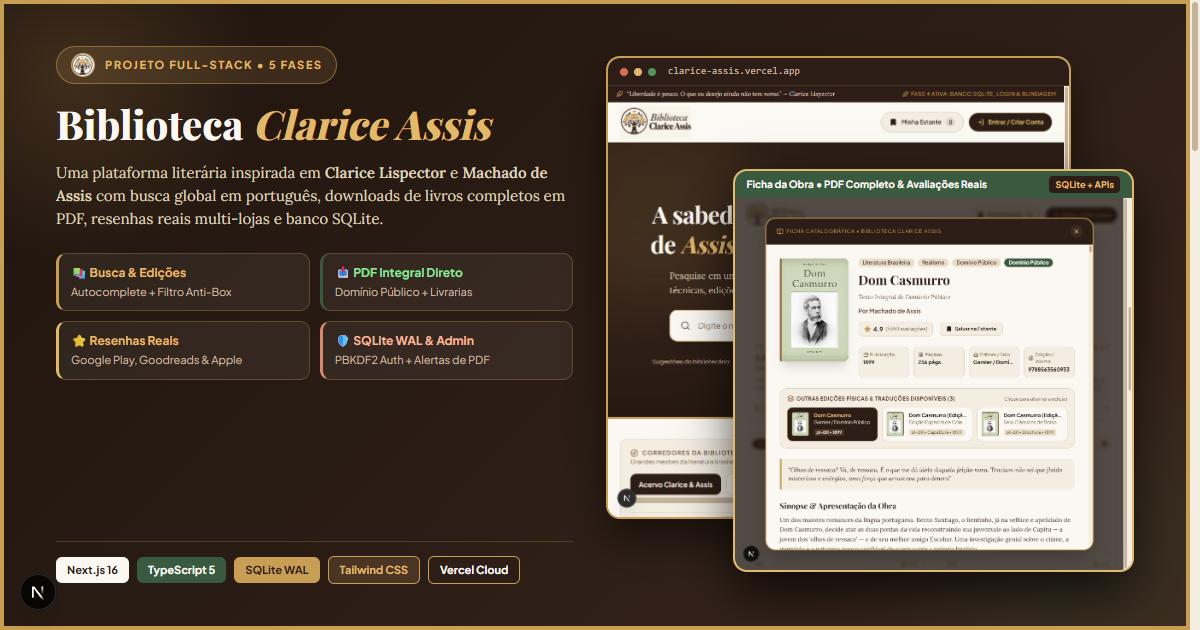
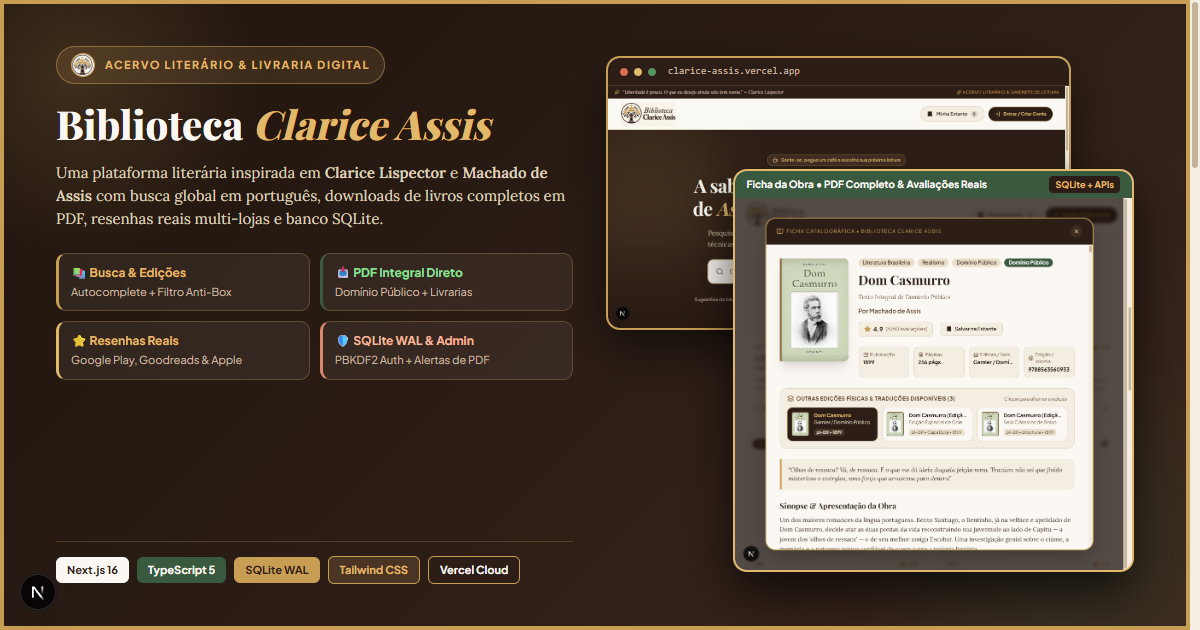
ui: remove development phase indicators from public site interface and refresh screenshots

diff --git a/src/app/page.tsx b/src/app/page.tsx
@@ -496,7 +496,7 @@ export default function ClariceAssisLibrary() {
           </div>
           <div className="flex items-center gap-4 text-[11px] uppercase tracking-wider text-[#C89D54]">
             <span className="flex items-center gap-1">
-              <Sparkles className="w-3 h-3" /> Fase 5 Ativa: Divisão Usuário vs. Admin & Alertas de PDF
+              <Sparkles className="w-3 h-3" /> Acervo Literário &amp; Gabinete de Leitura
             </span>
           </div>
         </div>
@@ -1203,56 +1203,6 @@ export default function ClariceAssisLibrary() {
               </button>
             </div>
           )}
-
-        {/* Roadmap Progress Banner at the Bottom */}
-        <section className="mt-16 bg-[#2C1E16] text-[#FBF8F3] rounded-3xl p-8 border-2 border-[#C89D54]/50 shadow-xl">
-          <div className="flex flex-col md:flex-row items-start md:items-center justify-between gap-6">
-            <div className="space-y-2 max-w-xl">
-              <span className="text-xs uppercase tracking-widest text-[#C89D54] font-semibold flex items-center gap-1.5">
-                <Sparkles className="w-3.5 h-3.5" /> Evolução Passo a Passo (Vibe Coding)
-              </span>
-              <h3 className="font-serif-title text-2xl font-bold">
-                Arquitetura da Biblioteca Clarice Assis
-              </h3>
-              <p className="text-sm text-[#D9CBB8] font-serif-body">
-                Construindo o projeto em etapas seguras para garantir código limpo, zero erros e visual refinado.
-              </p>
-            </div>
-
-            <div className="grid grid-cols-1 sm:grid-cols-2 lg:grid-cols-5 gap-3 w-full md:w-auto">
-              <div className="p-3.5 rounded-xl bg-[#36251B] border border-[#5C4028] text-xs">
-                <div className="flex items-center gap-1.5 text-[#3A5A40] bg-[#E8DEC8] px-2 py-0.5 rounded-full w-fit font-bold mb-1">
-                  <CheckCircle2 className="w-3.5 h-3.5" /> Fase 1
-                </div>
-                <p className="text-[#E6D7C3]">Catálogo & Edições</p>
-              </div>
-              <div className="p-3.5 rounded-xl bg-[#36251B] border border-[#5C4028] text-xs">
-                <div className="flex items-center gap-1.5 text-[#3A5A40] bg-[#E8DEC8] px-2 py-0.5 rounded-full w-fit font-bold mb-1">
-                  <CheckCircle2 className="w-3.5 h-3.5" /> Fase 2
-                </div>
-                <p className="text-[#E6D7C3]">PDF Completo & Livrarias</p>
-              </div>
-              <div className="p-3.5 rounded-xl bg-[#36251B] border border-[#5C4028] text-xs">
-                <div className="flex items-center gap-1.5 text-[#3A5A40] bg-[#E8DEC8] px-2 py-0.5 rounded-full w-fit font-bold mb-1">
-                  <CheckCircle2 className="w-3.5 h-3.5" /> Fase 3
-                </div>
-                <p className="text-[#E6D7C3]">Avaliações Multi-Lojas</p>
-              </div>
-              <div className="p-3.5 rounded-xl bg-[#36251B] border border-[#5C4028] text-xs">
-                <div className="flex items-center gap-1.5 text-[#3A5A40] bg-[#E8DEC8] px-2 py-0.5 rounded-full w-fit font-bold mb-1">
-                  <CheckCircle2 className="w-3.5 h-3.5" /> Fase 4
-                </div>
-                <p className="text-[#E6D7C3]">Banco SQLite & Login</p>
-              </div>
-              <div className="p-3.5 rounded-xl bg-[#3E2A1E] border-2 border-[#C89D54] text-xs shadow-md">
-                <div className="flex items-center gap-1.5 text-[#E2B86B] font-bold mb-1">
-                  <CheckCircle2 className="w-4 h-4" /> Fase 5 (Ativa)
-                </div>
-                <p className="text-[#FBF8F3]">Painel Admin & Alertas</p>
-              </div>
-            </div>
-          </div>
-        </section>
       </main>
 
       {/* Book Detail Modal (Ficha Catalográfica Completa) */}
@@ -1738,7 +1688,7 @@ export default function ClariceAssisLibrary() {
             <span>— Homenagem a Clarice Lispector & Machado de Assis</span>
           </div>
           <p className="text-[#9E8870]">
-            Construído passo a passo com Next.js Full-Stack + SQLite • Fase 5 Concluída (Sistema Completo)
+            Acervo Literário Digital • Gabinete de Leitura &amp; Cultura
           </p>
         </div>
       </footer>

diff --git a/src/components/AdminPanelModal.tsx b/src/components/AdminPanelModal.tsx
@@ -332,7 +332,7 @@ export default function AdminPanelModal({
             <div>
               <div className="flex items-center gap-2">
                 <span className="text-[11px] uppercase tracking-widest text-[#C89D54] font-bold">
-                  Fase 5 • Curadoria & Manutenção do Acervo
+                  Curadoria &amp; Manutenção do Acervo
                 </span>
                 <span className="px-2 py-0.5 rounded-full bg-[#3A5A40] text-white text-[10px] font-bold">
                   MODO ADMIN ATIVO
